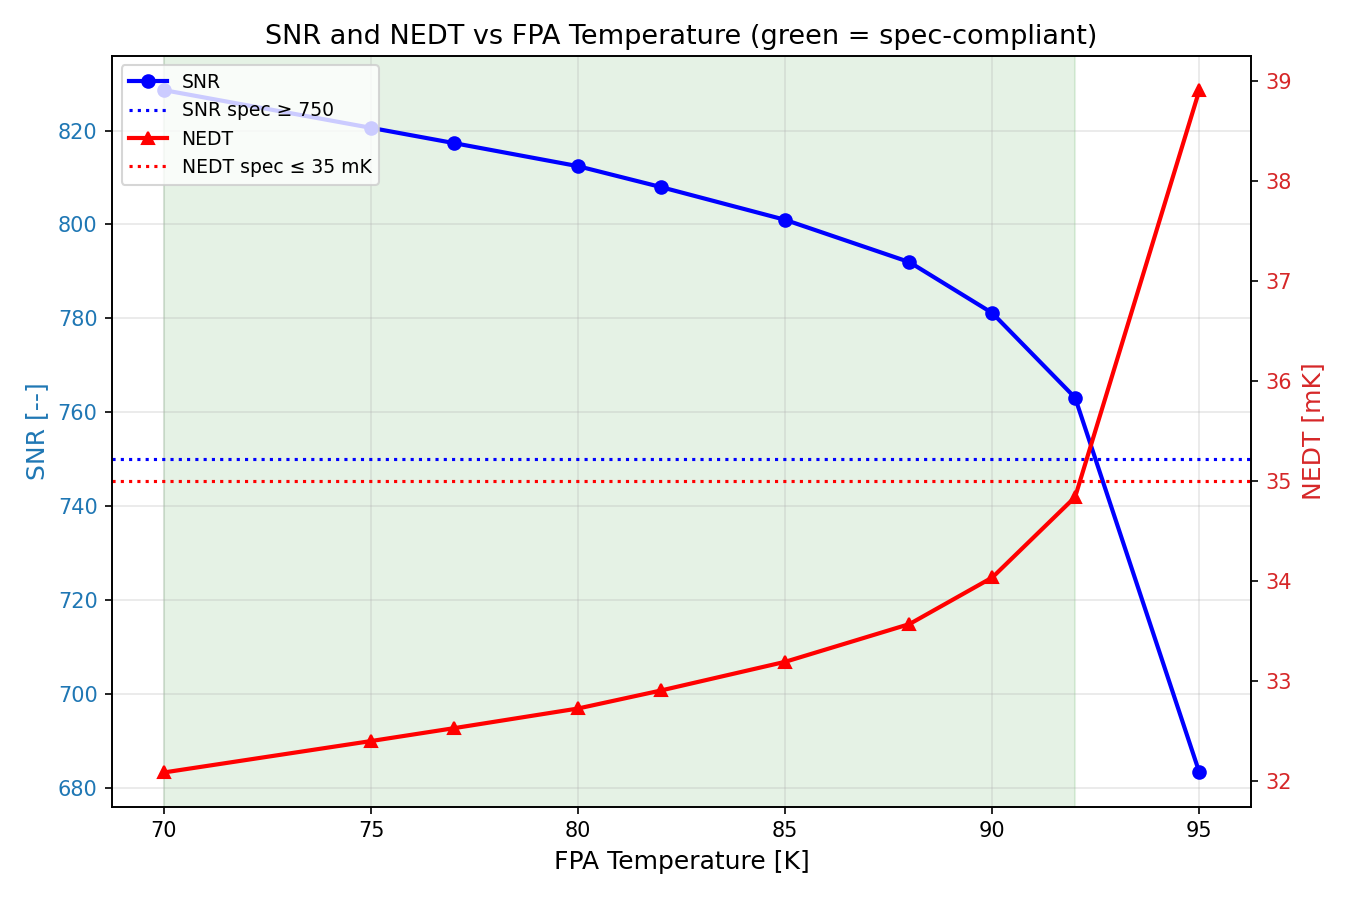
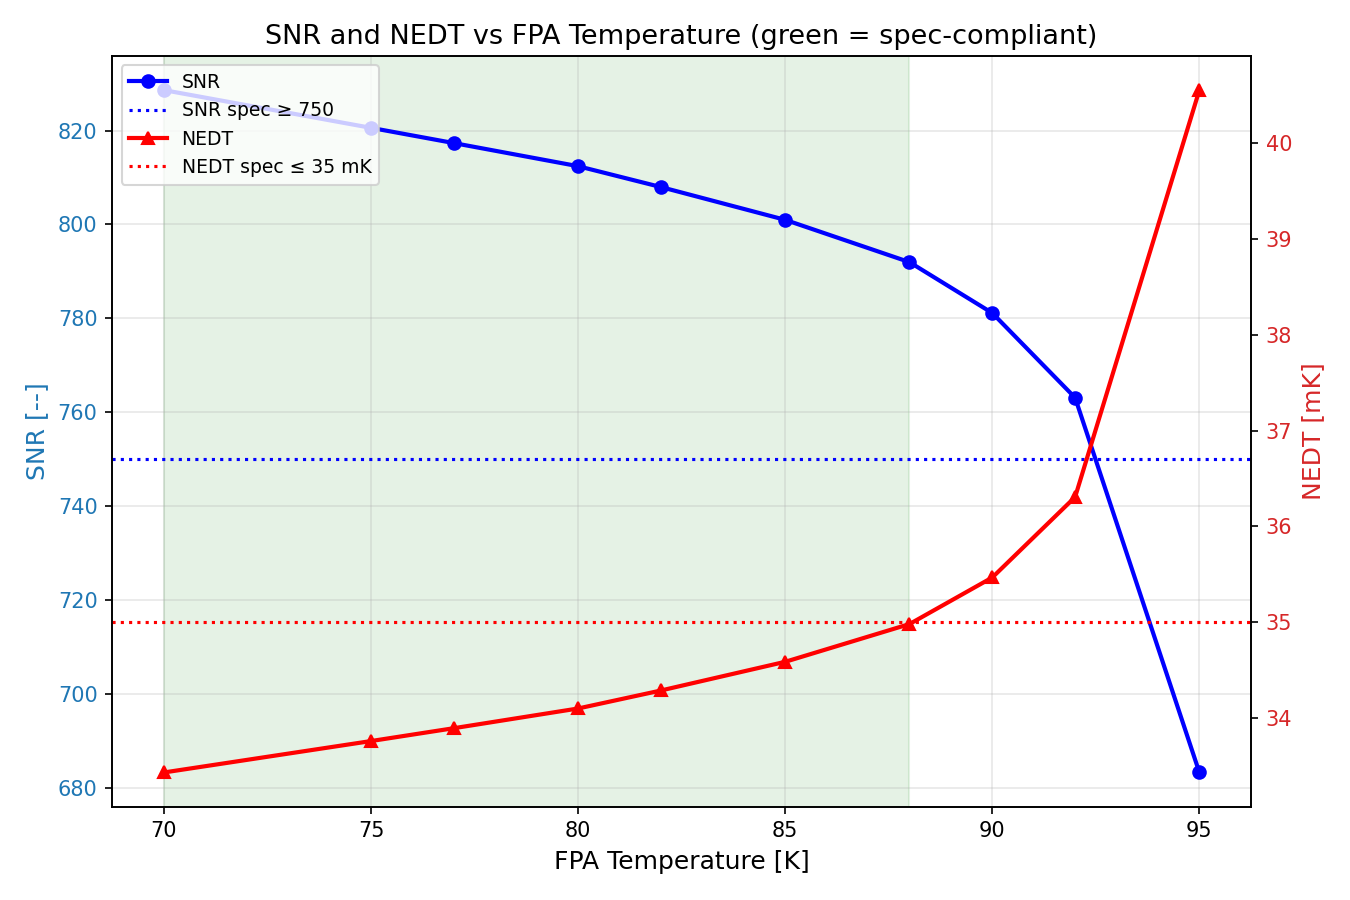
docs(scenarios): CU-176 — refresh 7.5 (environmental temp extremes) NEDT + compliance
Measured dark-current data and SNR are unchanged (dark J(T) is fixed lab input).
The band-effective Planck-factor update raised NEDT ~1.4 mK across the sweep
(70 K 32.08->33.44, 88 K 33.57->34.98 mK), which MOVES the acceptance edge: the
NEDT<=35 mK spec now holds only through 88 K (was 92 K), so the recommended set
point drops 89 K -> 85 K. Corrected a stale t_int header (0.55->0.6 ms; SNR/
signal confirm 0.6). Refreshed the performance table, compliance narrative, and
3 figures. The super-Arrhenius-knee and dark-driven-NEDT conclusions stand.

diff --git a/scenarios/07_karen_test_engineer/7.5_environmental_temp_extremes/walkthrough.md b/scenarios/07_karen_test_engineer/7.5_environmental_temp_extremes/walkthrough.md
@@ -51,16 +51,16 @@ under-predicts** above the ~88 K knee. A Rule-07 Arrhenius extrapolation
 would call 95 K eight times better than it is — the reason a *measured*
 J(T) input matters.
 
-### Performance vs FPA Temperature (t_int = 0.55 ms)
+### Performance vs FPA Temperature (t_int = 0.6 ms)
 
 | T [K] | QE | well % | signal_shot | dark_shot | SNR | NEDT [mK] |
 |------:|----|-------:|------------:|----------:|----:|----------:|
-| 70 | 0.78 | 46.4 | 834.5 | 0.9 | 828.6 | 32.08 |
-| 85 | 0.73 | 43.4 | 807.3 | 30.2 | 801.0 | 33.19 |
-| 88 | 0.72 | 42.7 | 800.6 | 69.3 | 792.0 | 33.57 |
-| 90 | 0.71 | 42.3 | 796.2 | 124.2 | 781.1 | 34.03 |
-| 92 | 0.71 | 42.3 | 796.2 | 216.7 | 763.1 | 34.84 |
-| 95 | 0.71 | 42.3 | 796.2 | 466.5 | 683.2 | 38.91 |
+| 70 | 0.78 | 46.4 | 834.5 | 0.9 | 828.6 | 33.44 |
+| 85 | 0.73 | 43.4 | 807.3 | 30.2 | 801.0 | 34.59 |
+| 88 | 0.72 | 42.7 | 800.6 | 69.3 | 792.0 | 34.98 |
+| 90 | 0.71 | 42.3 | 796.2 | 124.2 | 781.1 | 35.47 |
+| 92 | 0.71 | 42.3 | 796.2 | 216.7 | 763.1 | 36.31 |
+| 95 | 0.71 | 42.3 | 796.2 | 466.5 | 683.2 | 40.55 |
 
 Dark shot noise climbs from ~1 e⁻ (70 K) to 467 e⁻ (95 K) — from
 negligible to the second-largest term — and drags SNR down and NEDT up.
@@ -75,10 +75,11 @@ answer — not compared to dark.
 
 ### Spec Compliance and Recommendation
 
-SNR ≥ 750 and NEDT ≤ 35 mK hold through **92 K** (NEDT 34.8 mK, 0.2 mK
-margin); 95 K fails both. **Recommendation: operate at 89 K** — a 3 K guard
-band below the compliance edge, protecting against cooler drift and the
-super-Arrhenius knee at ~88 K where dark current climbs steeply.
+SNR ≥ 750 and NEDT ≤ 35 mK hold through **88 K** (NEDT 35.0 mK, ~0 mK
+margin); 90 K fails on NEDT (35.5 mK) and 95 K fails both. **Recommendation:
+operate at 85 K** — a 3 K guard band below the compliance edge, protecting
+against cooler drift and the super-Arrhenius knee at ~88 K where dark current
+climbs steeply.
 
 ## Physics Discussion
 
@@ -97,9 +98,10 @@ so a 300,000× dark increase drives NEDT directly. This is why cooling budget
 (dark), not QE(T), sets the operating point.
 
 **The guard band is against two things.** Cooler drift (a few K of
-set-point wander) and the knee's steepness: at 92 K the margin is 0.2 mK,
-but the NEDT slope is ~2 mK/K and rising, so a 1 K warm excursion blows the
-spec. 89 K sits on the flat part of the curve with real margin.
+set-point wander) and the knee's steepness: at 88 K the margin is ~0 mK,
+and the NEDT slope steepens from ~0.25 mK/K near the edge to ~1.4 mK/K past
+92 K, so a 1 K warm excursion blows the spec. 85 K sits on the flatter part
+of the curve with real margin (NEDT 34.6 mK).
 
 ## Gaps Identified
 
@@ -120,7 +122,7 @@ no new gap).
 
 ## What Karen Would Do Next
 
-1. **Set the flight operating point at 89 K** and document the 3 K guard
+1. **Set the flight operating point at 85 K** and document the 3 K guard
    band and the 88 K knee in the acceptance data package
 2. **Investigate the knee mechanism** (bias dependence, pixel-to-pixel
    spread) — a defect-assisted onset often has an operability tail worse
